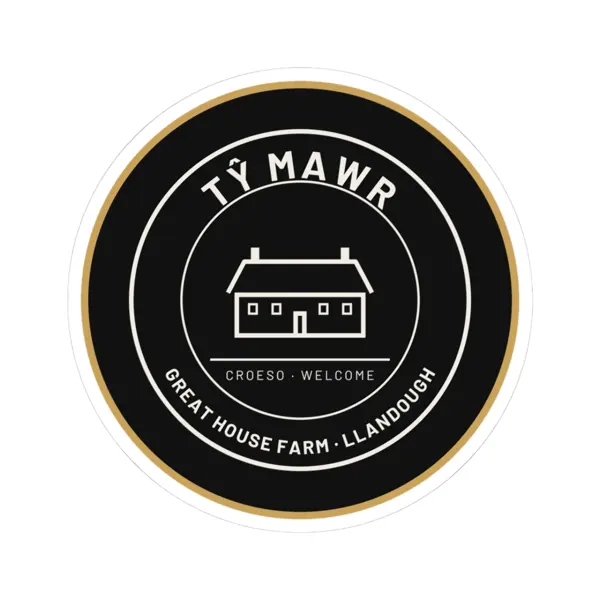
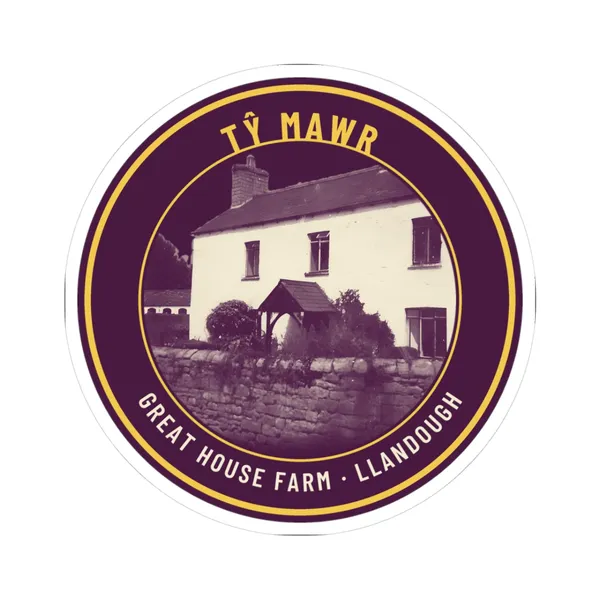
shop: real photographs only. Replaced the generated farmhouse linocut, oak, owl and Vale poster art with restored photos from the farm's own album (duotone, sky removed), new hero/og, 4 Williams–Buckler crest products (brand device, not a grant of arms) — Sion's Tab agent

diff --git a/public/index.html b/public/index.html
@@ -2,8 +2,8 @@
 <title>Gift shop · Great House Farm / Tŷ Mawr</title><meta name="description" content="T-shirts, hoodies, mugs, totes, posters and stickers for Tŷ Mawr / Great House Farm, Llandough. Printed to order, sold at cost.">
 <meta property="og:title" content="Gift shop · Great House Farm / Tŷ Mawr"><meta property="og:description" content="T-shirts, hoodies, mugs, totes, posters and stickers for Tŷ Mawr / Great House Farm, Llandough. Printed to order, sold at cost."><meta property="og:image" content="https://shop.bucklerfamily.estate/img/og.jpg"><meta property="og:url" content="https://shop.bucklerfamily.estate/">
 <link rel="icon" href="/img/icon.png"><link rel="preload" href="/assets/fonts/barlow-latin-400-normal.woff2" as="font" type="font/woff2" crossorigin>
-<link rel="stylesheet" href="/assets/theme.css?v=1"><link rel="stylesheet" href="/assets/shop.css?v=1">
-<script src="/assets/theme.js?v=1" defer></script><script src="https://bucklerfamily.estate/ghf-lang/ghf-lang.js" data-site="shop" defer></script>
+<link rel="stylesheet" href="/assets/theme.css?v=2"><link rel="stylesheet" href="/assets/shop.css?v=2">
+<script src="/assets/theme.js?v=2" defer></script><script src="https://bucklerfamily.estate/ghf-lang/ghf-lang.js" data-site="shop" defer></script>
 <script src="https://bucklerfamily.estate/ebook/cta.js" defer></script>
 </head><body class="sl-home">
 <header class="sl-nav"><nav class="top" aria-label="Site"><a href="/"><strong>Gift shop</strong></a><a href="/#products">Merch</a><a href="https://ebooks.bucklerfamily.estate/">E-books</a><a class="sl-ghost" href="https://greathousefarmwiki.wordpress.com/">Legal Wiki</a></nav></header>
@@ -13,26 +13,30 @@
 <h1>Tŷ Mawr gift shop</h1>
 <p>T-shirts, hoodies, mugs, totes, posters and stickers for Great House Farm, Llandough. Each one is printed when you order it and sold at cost. Every purchase helps tell the story of the farm.</p>
 <p><a class="sl-btn" href="#products">Shop the merch</a> <a class="sl-btn sl-ghost" href="https://ebooks.bucklerfamily.estate/">The e-books</a></p></div></section>
-<section class="sh-sec" id="products"><h2>Merch</h2><p class="sh-lead">Thirteen items, each printed when you order it, mostly in the UK.</p>
-<p class="sh-note">Every item is in the store now. Checkout opens very soon; until then you can browse and save your favourites.</p><div class="sh-grid"><article class="sh-card" id="tee-farmhouse"><div class="sh-img"><img src="/img/p-tee-farmhouse.webp" alt="Tŷ Mawr Farmhouse T-shirt" loading="lazy" width="600" height="600"></div>
-<div class="sh-body"><p class="sh-kind">T-shirt</p><h3>Tŷ Mawr Farmhouse T-shirt</h3><p>Linocut-style farmhouse on a black heavyweight cotton tee (Gildan 5000). Printed in the UK.</p><a class="sl-btn sh-buy" href="https://ty-mawr-gift-shop.printify.me/product/33339691?utm_source=shop.bucklerfamily.estate&amp;utm_medium=storefront&amp;utm_campaign=merch" rel="noopener">See it · from $16.99</a></div></article><article class="sh-card" id="tee-cofiwch"><div class="sh-img"><img src="/img/p-tee-cofiwch.webp" alt="Cofiwch Dŷ Mawr T-shirt" loading="lazy" width="600" height="600"></div>
-<div class="sh-body"><p class="sh-kind">T-shirt</p><h3>Cofiwch Dŷ Mawr T-shirt</h3><p>Remember Tŷ Mawr in bold Welsh type, on a black heavyweight cotton tee. Printed in the UK.</p><a class="sl-btn sh-buy" href="https://ty-mawr-gift-shop.printify.me/product/33339699?utm_source=shop.bucklerfamily.estate&amp;utm_medium=storefront&amp;utm_campaign=merch" rel="noopener">See it · from $16.99</a></div></article><article class="sh-card" id="tee-roots"><div class="sh-img"><img src="/img/p-tee-roots.webp" alt="Our Roots Run Deep T-shirt" loading="lazy" width="600" height="600"></div>
-<div class="sh-body"><p class="sh-kind">T-shirt</p><h3>Our Roots Run Deep T-shirt</h3><p>An oak whose roots become a map of hedged fields, on a black heavyweight cotton tee. Printed in the UK.</p><a class="sl-btn sh-buy" href="https://ty-mawr-gift-shop.printify.me/product/33339700?utm_source=shop.bucklerfamily.estate&amp;utm_medium=storefront&amp;utm_campaign=merch" rel="noopener">See it · from $16.99</a></div></article><article class="sh-card" id="tee-two-realities"><div class="sh-img"><img src="/img/p-tee-two-realities.webp" alt="Two Realities, One Farm T-shirt" loading="lazy" width="600" height="600"></div>
-<div class="sh-body"><p class="sh-kind">T-shirt</p><h3>Two Realities, One Farm T-shirt</h3><p>The chessboard design on a black heavyweight cotton tee. Printed in the UK.</p><a class="sl-btn sh-buy" href="https://ty-mawr-gift-shop.printify.me/product/33339701?utm_source=shop.bucklerfamily.estate&amp;utm_medium=storefront&amp;utm_campaign=merch" rel="noopener">See it · from $16.99</a></div></article><article class="sh-card" id="tee-owl"><div class="sh-img"><img src="/img/p-tee-owl.webp" alt="Nos Da o Dŷ Mawr T-shirt" loading="lazy" width="600" height="600"></div>
-<div class="sh-body"><p class="sh-kind">T-shirt</p><h3>Nos Da o Dŷ Mawr T-shirt</h3><p>Good night from Tŷ Mawr: a barn owl in engraving style, on a black heavyweight cotton tee. Printed in the UK.</p><a class="sl-btn sh-buy" href="https://ty-mawr-gift-shop.printify.me/product/33339702?utm_source=shop.bucklerfamily.estate&amp;utm_medium=storefront&amp;utm_campaign=merch" rel="noopener">See it · from $16.99</a></div></article><article class="sh-card" id="tee-path"><div class="sh-img"><img src="/img/p-tee-path.webp" alt="I Followed the Path T-shirt" loading="lazy" width="600" height="600"></div>
-<div class="sh-body"><p class="sh-kind">T-shirt</p><h3>I Followed the Path T-shirt</h3><p>Numbered stepping stones to the farmhouse, on a black heavyweight cotton tee. Printed in the UK.</p><a class="sl-btn sh-buy" href="https://ty-mawr-gift-shop.printify.me/product/33339704?utm_source=shop.bucklerfamily.estate&amp;utm_medium=storefront&amp;utm_campaign=merch" rel="noopener">See it · from $16.99</a></div></article><article class="sh-card" id="hoodie-emblem"><div class="sh-img"><img src="/img/p-hoodie-emblem.webp" alt="Tŷ Mawr Emblem Hoodie" loading="lazy" width="600" height="600"></div>
-<div class="sh-body"><p class="sh-kind">Hoodie</p><h3>Tŷ Mawr Emblem Hoodie</h3><p>The Tŷ Mawr farmhouse emblem on a black Gildan 18500 hooded sweatshirt. Printed in the UK.</p><a class="sl-btn sh-buy" href="https://ty-mawr-gift-shop.printify.me/product/33339706?utm_source=shop.bucklerfamily.estate&amp;utm_medium=storefront&amp;utm_campaign=merch" rel="noopener">See it · $40.99</a></div></article><article class="sh-card" id="hoodie-wordmark"><div class="sh-img"><img src="/img/p-hoodie-wordmark.webp" alt="Tŷ Mawr Estate Map Hoodie" loading="lazy" width="600" height="600"></div>
-<div class="sh-body"><p class="sh-kind">Hoodie</p><h3>Tŷ Mawr Estate Map Hoodie</h3><p>The Tŷ Mawr wordmark under estate-map line art, on a black hooded sweatshirt. Printed in the UK.</p><a class="sl-btn sh-buy" href="https://ty-mawr-gift-shop.printify.me/product/33339709?utm_source=shop.bucklerfamily.estate&amp;utm_medium=storefront&amp;utm_campaign=merch" rel="noopener">See it · $40.99</a></div></article><article class="sh-card" id="mug-emblem"><div class="sh-img"><img src="/img/p-mug-emblem.webp" alt="Tŷ Mawr Black Mug" loading="lazy" width="600" height="600"></div>
-<div class="sh-body"><p class="sh-kind">Mug</p><h3>Tŷ Mawr Black Mug</h3><p>Black ceramic mug, 11oz or 15oz, with the Tŷ Mawr emblem. Printed in the UK.</p><a class="sl-btn sh-buy" href="https://ty-mawr-gift-shop.printify.me/product/33339711?utm_source=shop.bucklerfamily.estate&amp;utm_medium=storefront&amp;utm_campaign=merch" rel="noopener">See it · from $14.99</a></div></article><article class="sh-card" id="mug-croeso"><div class="sh-img"><img src="/img/p-mug-croeso.webp" alt="Croeso i Dŷ Mawr Mug" loading="lazy" width="600" height="600"></div>
+<section class="sh-sec" id="products"><h2>Merch</h2><p class="sh-lead">Seventeen items, each printed when you order it, mostly in the UK.</p>
+<p class="sh-note">Every item is in the store now. Checkout opens very soon; until then you can browse and save your favourites.</p><div class="sh-grid"><article class="sh-card" id="tee-farmhouse"><div class="sh-img"><img src="/img/p-tee-farmhouse.webp?v=photo1" alt="Tŷ Mawr Farmhouse T-shirt" loading="lazy" width="600" height="600"></div>
+<div class="sh-body"><p class="sh-kind">T-shirt</p><h3>Tŷ Mawr Farmhouse T-shirt</h3><p>A real photograph of the Tŷ Mawr farmhouse from the farm&#x27;s own album. The sky is removed and it is printed in a mulberry and cream duotone; the building itself is unchanged. On a black heavyweight cotton tee (Gildan 5000). Printed in the UK.</p><a class="sl-btn sh-buy" href="https://ty-mawr-gift-shop.printify.me/product/33339691?utm_source=shop.bucklerfamily.estate&amp;utm_medium=storefront&amp;utm_campaign=merch" rel="noopener">See it · from $16.99</a></div></article><article class="sh-card" id="tee-cofiwch"><div class="sh-img"><img src="/img/p-tee-cofiwch.webp" alt="Cofiwch Dŷ Mawr T-shirt" loading="lazy" width="600" height="600"></div>
+<div class="sh-body"><p class="sh-kind">T-shirt</p><h3>Cofiwch Dŷ Mawr T-shirt</h3><p>Remember Tŷ Mawr in bold Welsh type, on a black heavyweight cotton tee. Printed in the UK.</p><a class="sl-btn sh-buy" href="https://ty-mawr-gift-shop.printify.me/product/33339699?utm_source=shop.bucklerfamily.estate&amp;utm_medium=storefront&amp;utm_campaign=merch" rel="noopener">See it · from $16.99</a></div></article><article class="sh-card" id="tee-roots"><div class="sh-img"><img src="/img/p-tee-roots.webp?v=photo1" alt="Our Roots Run Deep T-shirt" loading="lazy" width="600" height="600"></div>
+<div class="sh-body"><p class="sh-kind">T-shirt</p><h3>Our Roots Run Deep T-shirt</h3><p>Our Roots Run Deep, above a real photograph of the Tŷ Mawr farmhouse from the farm&#x27;s own album, printed in a mulberry and cream duotone. On a black heavyweight cotton tee (Gildan 5000). Printed in the UK.</p><a class="sl-btn sh-buy" href="https://ty-mawr-gift-shop.printify.me/product/33339700?utm_source=shop.bucklerfamily.estate&amp;utm_medium=storefront&amp;utm_campaign=merch" rel="noopener">See it · from $16.99</a></div></article><article class="sh-card" id="tee-two-realities"><div class="sh-img"><img src="/img/p-tee-two-realities.webp" alt="Two Realities, One Farm T-shirt" loading="lazy" width="600" height="600"></div>
+<div class="sh-body"><p class="sh-kind">T-shirt</p><h3>Two Realities, One Farm T-shirt</h3><p>The chessboard design on a black heavyweight cotton tee. Printed in the UK.</p><a class="sl-btn sh-buy" href="https://ty-mawr-gift-shop.printify.me/product/33339701?utm_source=shop.bucklerfamily.estate&amp;utm_medium=storefront&amp;utm_campaign=merch" rel="noopener">See it · from $16.99</a></div></article><article class="sh-card" id="tee-owl"><div class="sh-img"><img src="/img/p-tee-porch.webp?v=photo1" alt="Croeso i Dŷ Mawr Porch T-shirt" loading="lazy" width="600" height="600"></div>
+<div class="sh-body"><p class="sh-kind">T-shirt</p><h3>Croeso i Dŷ Mawr Porch T-shirt</h3><p>The farmhouse&#x27;s timber porch, from a real photograph in the farm&#x27;s own album, printed in a mulberry and cream duotone with no changes to the building. On a black heavyweight cotton tee (Gildan 5000). Printed in the UK.</p><a class="sl-btn sh-buy" href="https://ty-mawr-gift-shop.printify.me/product/33339702?utm_source=shop.bucklerfamily.estate&amp;utm_medium=storefront&amp;utm_campaign=merch" rel="noopener">See it · from $16.99</a></div></article><article class="sh-card" id="tee-path"><div class="sh-img"><img src="/img/p-tee-path.webp?v=photo1" alt="I Followed the Path T-shirt" loading="lazy" width="600" height="600"></div>
+<div class="sh-body"><p class="sh-kind">T-shirt</p><h3>I Followed the Path T-shirt</h3><p>Numbered stepping stones leading to a real photograph of the Tŷ Mawr farmhouse (sky removed, mulberry and cream duotone). On a black heavyweight cotton tee (Gildan 5000). Printed in the UK.</p><a class="sl-btn sh-buy" href="https://ty-mawr-gift-shop.printify.me/product/33339704?utm_source=shop.bucklerfamily.estate&amp;utm_medium=storefront&amp;utm_campaign=merch" rel="noopener">See it · from $16.99</a></div></article><article class="sh-card" id="hoodie-emblem"><div class="sh-img"><img src="/img/p-hoodie-emblem.webp?v=photo1" alt="Tŷ Mawr Emblem Hoodie" loading="lazy" width="600" height="600"></div>
+<div class="sh-body"><p class="sh-kind">Hoodie</p><h3>Tŷ Mawr Emblem Hoodie</h3><p>The Tŷ Mawr emblem: a real photograph of the farmhouse from the farm&#x27;s own album, sky removed, in a mulberry tone inside a gold ring. On a black Gildan 18500 hooded sweatshirt. Printed in the UK.</p><a class="sl-btn sh-buy" href="https://ty-mawr-gift-shop.printify.me/product/33339706?utm_source=shop.bucklerfamily.estate&amp;utm_medium=storefront&amp;utm_campaign=merch" rel="noopener">See it · $40.99</a></div></article><article class="sh-card" id="hoodie-wordmark"><div class="sh-img"><img src="/img/p-hoodie-wordmark.webp" alt="Tŷ Mawr Estate Map Hoodie" loading="lazy" width="600" height="600"></div>
+<div class="sh-body"><p class="sh-kind">Hoodie</p><h3>Tŷ Mawr Estate Map Hoodie</h3><p>The Tŷ Mawr wordmark under estate-map line art, on a black hooded sweatshirt. Printed in the UK.</p><a class="sl-btn sh-buy" href="https://ty-mawr-gift-shop.printify.me/product/33339709?utm_source=shop.bucklerfamily.estate&amp;utm_medium=storefront&amp;utm_campaign=merch" rel="noopener">See it · $40.99</a></div></article><article class="sh-card" id="mug-emblem"><div class="sh-img"><img src="/img/p-mug-emblem.webp?v=photo1" alt="Tŷ Mawr Black Mug" loading="lazy" width="600" height="600"></div>
+<div class="sh-body"><p class="sh-kind">Mug</p><h3>Tŷ Mawr Black Mug</h3><p>Black ceramic mug, 11oz or 15oz, with the Tŷ Mawr emblem on both sides: a real photograph of the farmhouse, sky removed, in a mulberry tone inside a gold ring. Printed in the UK.</p><a class="sl-btn sh-buy" href="https://ty-mawr-gift-shop.printify.me/product/33339711?utm_source=shop.bucklerfamily.estate&amp;utm_medium=storefront&amp;utm_campaign=merch" rel="noopener">See it · from $14.99</a></div></article><article class="sh-card" id="mug-croeso"><div class="sh-img"><img src="/img/p-mug-croeso.webp" alt="Croeso i Dŷ Mawr Mug" loading="lazy" width="600" height="600"></div>
 <div class="sh-body"><p class="sh-kind">Mug</p><h3>Croeso i Dŷ Mawr Mug</h3><p>Black ceramic mug with the field-map design and a Welsh welcome. Printed in the UK.</p><a class="sl-btn sh-buy" href="https://ty-mawr-gift-shop.printify.me/product/33339714?utm_source=shop.bucklerfamily.estate&amp;utm_medium=storefront&amp;utm_campaign=merch" rel="noopener">See it · from $14.99</a></div></article><article class="sh-card" id="tote-record"><div class="sh-img"><img src="/img/p-tote-record.webp" alt="Read the Record Tote Bag" loading="lazy" width="600" height="600"></div>
-<div class="sh-body"><p class="sh-kind">Tote bag</p><h3>Read the Record Tote Bag</h3><p>Black cotton tote with the open-book Read the Record design. Printed in the UK.</p><a class="sl-btn sh-buy" href="https://ty-mawr-gift-shop.printify.me/product/33339716?utm_source=shop.bucklerfamily.estate&amp;utm_medium=storefront&amp;utm_campaign=merch" rel="noopener">See it · $17.99</a></div></article><article class="sh-card" id="poster-vale"><div class="sh-img"><img src="/img/p-poster-vale.webp" alt="Vale of Glamorgan Poster" loading="lazy" width="600" height="600"></div>
-<div class="sh-body"><p class="sh-kind">Poster</p><h3>Vale of Glamorgan Poster</h3><p>Mid-century travel-poster view of the Vale, on matte fine-art paper. Printed in the UK.</p><a class="sl-btn sh-buy" href="https://ty-mawr-gift-shop.printify.me/product/33339720?utm_source=shop.bucklerfamily.estate&amp;utm_medium=storefront&amp;utm_campaign=merch" rel="noopener">See it · from $17.99</a></div></article><article class="sh-card" id="sticker-badge"><div class="sh-img"><img src="/img/p-sticker-badge.webp" alt="Tŷ Mawr Badge Sticker" loading="lazy" width="600" height="600"></div>
-<div class="sh-body"><p class="sh-kind">Sticker</p><h3>Tŷ Mawr Badge Sticker</h3><p>Round kiss-cut vinyl sticker with the Tŷ Mawr emblem. Ships from the US, so it takes longer.</p><a class="sl-btn sh-buy" href="https://ty-mawr-gift-shop.printify.me/product/33339723?utm_source=shop.bucklerfamily.estate&amp;utm_medium=storefront&amp;utm_campaign=merch" rel="noopener">See it · $3.99</a></div></article></div></section>
+<div class="sh-body"><p class="sh-kind">Tote bag</p><h3>Read the Record Tote Bag</h3><p>Black cotton tote with the open-book Read the Record design. Printed in the UK.</p><a class="sl-btn sh-buy" href="https://ty-mawr-gift-shop.printify.me/product/33339716?utm_source=shop.bucklerfamily.estate&amp;utm_medium=storefront&amp;utm_campaign=merch" rel="noopener">See it · $17.99</a></div></article><article class="sh-card" id="poster-vale"><div class="sh-img"><img src="/img/p-poster-vale.webp?v=photo1" alt="Tŷ Mawr Album Poster" loading="lazy" width="600" height="600"></div>
+<div class="sh-body"><p class="sh-kind">Poster</p><h3>Tŷ Mawr Album Poster</h3><p>Four real photographs from the farm&#x27;s own album: the farmhouse front, its side and porch, the entrance gate and the stable range. Restored and printed in a mulberry duotone, with no changes to the buildings. Matte fine-art paper. Printed in the UK.</p><a class="sl-btn sh-buy" href="https://ty-mawr-gift-shop.printify.me/product/33339720?utm_source=shop.bucklerfamily.estate&amp;utm_medium=storefront&amp;utm_campaign=merch" rel="noopener">See it · from $17.99</a></div></article><article class="sh-card" id="sticker-badge"><div class="sh-img"><img src="/img/p-sticker-badge.webp?v=photo1" alt="Tŷ Mawr Badge Sticker" loading="lazy" width="600" height="600"></div>
+<div class="sh-body"><p class="sh-kind">Sticker</p><h3>Tŷ Mawr Badge Sticker</h3><p>Round kiss-cut vinyl sticker with the Tŷ Mawr emblem: a real photograph of the farmhouse in a mulberry tone inside a gold ring. Ships from the US, so it takes longer.</p><a class="sl-btn sh-buy" href="https://ty-mawr-gift-shop.printify.me/product/33339723?utm_source=shop.bucklerfamily.estate&amp;utm_medium=storefront&amp;utm_campaign=merch" rel="noopener">See it · $3.99</a></div></article><article class="sh-card" id="tee-crest"><div class="sh-img"><img src="/img/p-tee-crest.webp?v=photo1" alt="Williams–Buckler Crest T-shirt" loading="lazy" width="600" height="600"></div>
+<div class="sh-body"><p class="sh-kind">T-shirt</p><h3>Williams–Buckler Crest T-shirt</h3><p>The Williams–Buckler · Cedwyn Estate crest, hand-drawn vector art in black and gold, on a black heavyweight cotton tee (Gildan 5000). A brand device combining the Williams and Buckler arms; not a grant of arms. Printed in the UK.</p><a class="sl-btn sh-buy" href="https://ty-mawr-gift-shop.printify.me/product/33341237?utm_source=shop.bucklerfamily.estate&amp;utm_medium=storefront&amp;utm_campaign=merch" rel="noopener">See it · from $16.99</a></div></article><article class="sh-card" id="hoodie-crest"><div class="sh-img"><img src="/img/p-hoodie-crest.webp?v=photo1" alt="Williams–Buckler Crest Hoodie" loading="lazy" width="600" height="600"></div>
+<div class="sh-body"><p class="sh-kind">Hoodie</p><h3>Williams–Buckler Crest Hoodie</h3><p>The Williams–Buckler · Cedwyn Estate crest, hand-drawn vector art in black and gold, on a black Gildan 18500 hooded sweatshirt. A brand device combining the Williams and Buckler arms; not a grant of arms. Printed in the UK.</p><a class="sl-btn sh-buy" href="https://ty-mawr-gift-shop.printify.me/product/33341239?utm_source=shop.bucklerfamily.estate&amp;utm_medium=storefront&amp;utm_campaign=merch" rel="noopener">See it · $40.99</a></div></article><article class="sh-card" id="mug-crest"><div class="sh-img"><img src="/img/p-mug-crest.webp?v=photo1" alt="Williams–Buckler Crest Mug" loading="lazy" width="600" height="600"></div>
+<div class="sh-body"><p class="sh-kind">Mug</p><h3>Williams–Buckler Crest Mug</h3><p>Black ceramic mug, 11oz or 15oz, with the Williams–Buckler · Cedwyn Estate crest on both sides. A brand device combining the Williams and Buckler arms; not a grant of arms. Printed in the UK.</p><a class="sl-btn sh-buy" href="https://ty-mawr-gift-shop.printify.me/product/33341242?utm_source=shop.bucklerfamily.estate&amp;utm_medium=storefront&amp;utm_campaign=merch" rel="noopener">See it · from $14.99</a></div></article><article class="sh-card" id="sticker-crest"><div class="sh-img"><img src="/img/p-sticker-crest.webp?v=photo1" alt="Williams–Buckler Crest Sticker" loading="lazy" width="600" height="600"></div>
+<div class="sh-body"><p class="sh-kind">Sticker</p><h3>Williams–Buckler Crest Sticker</h3><p>Kiss-cut vinyl sticker of the Williams–Buckler · Cedwyn Estate crest. A brand device combining the Williams and Buckler arms; not a grant of arms. Ships from the US, so it takes longer.</p><a class="sl-btn sh-buy" href="https://ty-mawr-gift-shop.printify.me/product/33341245?utm_source=shop.bucklerfamily.estate&amp;utm_medium=storefront&amp;utm_campaign=merch" rel="noopener">See it · $3.99</a></div></article></div></section>
 <section class="sh-sec" id="books"><h2>Books</h2><p class="sh-lead">The story behind the designs, in full.</p>
 <div class="sh-books"><a class="sh-book" href="https://bucklerfamily.estate/ebook/"><strong>The Great House Farm Legal Wiki</strong><span>The whole wiki as one e-book · from £0.00 · £9.99 – v0.02 · all four £31.99</span></a>
 <a class="sh-book" href="https://ebooks.bucklerfamily.estate/"><strong>All the e-books</strong><span>Every book from £0.00 – v0.01 and £9.99 – v0.02; all four for £31.99</span></a></div></section>
-<section class="sh-sec" id="designs"><h2>The designs</h2><p class="sh-lead">Every design was drawn for this shop. None uses a photograph of a person.</p>
-<div class="sh-dgrid"><figure class="sh-d"><img src="/img/d10-farmhouse-linocut.webp" alt="Tŷ Mawr farmhouse" loading="lazy" width="640" height="640"><figcaption><strong>Tŷ Mawr farmhouse</strong> Linocut-style illustration of a Welsh stone farmhouse.</figcaption></figure><figure class="sh-d"><img src="/img/d04-cofiwch-dy-mawr.webp" alt="Cofiwch Dŷ Mawr" loading="lazy" width="640" height="640"><figcaption><strong>Cofiwch Dŷ Mawr</strong> Remember Tŷ Mawr, in bold Welsh type.</figcaption></figure><figure class="sh-d"><img src="/img/d11-our-roots-run-deep.webp" alt="Our roots run deep" loading="lazy" width="640" height="640"><figcaption><strong>Our roots run deep</strong> An oak whose roots become a map of hedged fields.</figcaption></figure><figure class="sh-d"><img src="/img/d07-two-realities-one-farm.webp" alt="Two realities. One farm." loading="lazy" width="640" height="640"><figcaption><strong>Two realities. One farm.</strong> A chessboard for the two stories told about one farm.</figcaption></figure><figure class="sh-d"><img src="/img/d12-nos-da-owl.webp" alt="Nos da o Dŷ Mawr" loading="lazy" width="640" height="640"><figcaption><strong>Nos da o Dŷ Mawr</strong> Good night from Tŷ Mawr: a barn owl in engraving style.</figcaption></figure><figure class="sh-d"><img src="/img/d01-emblem-cream.webp" alt="The Tŷ Mawr emblem" loading="lazy" width="640" height="640"><figcaption><strong>The Tŷ Mawr emblem</strong> The farmhouse badge: Tŷ Mawr, Great House Farm, Llandough.</figcaption></figure><figure class="sh-d"><img src="/img/d03-wordmark-estate-map.webp" alt="Tŷ Mawr · estate map" loading="lazy" width="640" height="640"><figcaption><strong>Tŷ Mawr · estate map</strong> The wordmark under stylised estate map line art.</figcaption></figure><figure class="sh-d"><img src="/img/d05-every-field-has-a-story.webp" alt="Every field has a story" loading="lazy" width="640" height="640"><figcaption><strong>Every field has a story</strong> Field-map line art and an italic line of text.</figcaption></figure><figure class="sh-d"><img src="/img/d06-read-the-record.webp" alt="Read the record" loading="lazy" width="640" height="640"><figcaption><strong>Read the record</strong> An open book, for readers of the Legal Wiki.</figcaption></figure><figure class="sh-d"><img src="/img/d08-i-followed-the-path.webp" alt="I followed the path" loading="lazy" width="640" height="640"><figcaption><strong>I followed the path</strong> Numbered stepping stones that lead to the farmhouse.</figcaption></figure><figure class="sh-d"><img src="/img/d09-sticker-badge.webp" alt="Sticker badge" loading="lazy" width="640" height="640"><figcaption><strong>Sticker badge</strong> The emblem on a round black badge.</figcaption></figure><figure class="sh-d"><img src="/img/d13-vale-poster.webp" alt="Vale of Glamorgan poster" loading="lazy" width="640" height="640"><figcaption><strong>Vale of Glamorgan poster</strong> A mid-century travel-poster view of the Vale.</figcaption></figure></div></section>
+<section class="sh-sec" id="designs"><h2>The designs</h2><p class="sh-lead">Every picture of the farm is a real photograph from the farm’s own album: restored and toned, never redrawn or generated. No photograph shows a person.</p>
+<div class="sh-dgrid"><figure class="sh-d"><img src="/img/ph01-farmhouse.webp" alt="Tŷ Mawr farmhouse" loading="lazy" width="640" height="640"><figcaption><strong>Tŷ Mawr farmhouse</strong> A real photograph from the farm&#x27;s own album: sky removed, mulberry and cream duotone. The building is unchanged.</figcaption></figure><figure class="sh-d"><img src="/img/ph02-porch.webp" alt="Croeso i Dŷ Mawr" loading="lazy" width="640" height="640"><figcaption><strong>Croeso i Dŷ Mawr</strong> The farmhouse&#x27;s timber porch, from a real album photograph, in duotone.</figcaption></figure><figure class="sh-d"><img src="/img/ph03-our-roots.webp" alt="Our roots run deep" loading="lazy" width="640" height="640"><figcaption><strong>Our roots run deep</strong> The words above a real photograph of the farmhouse, in duotone.</figcaption></figure><figure class="sh-d"><img src="/img/ph04-path.webp" alt="I followed the path" loading="lazy" width="640" height="640"><figcaption><strong>I followed the path</strong> Numbered stepping stones up to the real farmhouse photograph.</figcaption></figure><figure class="sh-d"><img src="/img/ph05-emblem.webp" alt="The Tŷ Mawr emblem" loading="lazy" width="640" height="640"><figcaption><strong>The Tŷ Mawr emblem</strong> The farmhouse photograph, sky removed, inside a gold ring.</figcaption></figure><figure class="sh-d"><img src="/img/ph06-album-poster.webp" alt="From the farm’s album" loading="lazy" width="640" height="640"><figcaption><strong>From the farm’s album</strong> Four real photographs: the farmhouse front, side, entrance and stable range.</figcaption></figure><figure class="sh-d"><img src="/img/cr01-crest.webp" alt="Williams–Buckler crest" loading="lazy" width="640" height="640"><figcaption><strong>Williams–Buckler crest</strong> Hand-drawn vector brand device for the Cedwyn Estate. A brand device combining the Williams and Buckler arms; not a grant of arms.</figcaption></figure><figure class="sh-d"><img src="/img/d04-cofiwch-dy-mawr.webp" alt="Cofiwch Dŷ Mawr" loading="lazy" width="640" height="640"><figcaption><strong>Cofiwch Dŷ Mawr</strong> Remember Tŷ Mawr, in bold Welsh type.</figcaption></figure><figure class="sh-d"><img src="/img/d07-two-realities-one-farm.webp" alt="Two realities. One farm." loading="lazy" width="640" height="640"><figcaption><strong>Two realities. One farm.</strong> A chessboard for the two stories told about one farm.</figcaption></figure><figure class="sh-d"><img src="/img/d03-wordmark-estate-map.webp" alt="Tŷ Mawr · estate map" loading="lazy" width="640" height="640"><figcaption><strong>Tŷ Mawr · estate map</strong> The wordmark under stylised estate map line art.</figcaption></figure><figure class="sh-d"><img src="/img/d05-every-field-has-a-story.webp" alt="Every field has a story" loading="lazy" width="640" height="640"><figcaption><strong>Every field has a story</strong> Field-map line art and an italic line of text.</figcaption></figure><figure class="sh-d"><img src="/img/d06-read-the-record.webp" alt="Read the record" loading="lazy" width="640" height="640"><figcaption><strong>Read the record</strong> An open book, for readers of the Legal Wiki.</figcaption></figure></div></section>
 <section class="sh-sec" id="how"><h2>How an order works</h2><ol class="sh-steps">
 <li>Pick an item and press the button. It opens in our print partner's secure store, where you choose size and colour and pay.</li>
 <li>The item is printed to order by a print partner near you (UK items print in the UK where available).</li>

diff --git a/public/terms/index.html b/public/terms/index.html
@@ -2,8 +2,8 @@
 <title>Terms, delivery and returns · Tŷ Mawr gift shop</title><meta name="description" content="Who sells the merch, how delivery works, and returns.">
 <meta property="og:title" content="Terms, delivery and returns · Tŷ Mawr gift shop"><meta property="og:description" content="Who sells the merch, how delivery works, and returns."><meta property="og:image" content="https://shop.bucklerfamily.estate/img/og.jpg"><meta property="og:url" content="https://shop.bucklerfamily.estate/terms/">
 <link rel="icon" href="/img/icon.png"><link rel="preload" href="/assets/fonts/barlow-latin-400-normal.woff2" as="font" type="font/woff2" crossorigin>
-<link rel="stylesheet" href="/assets/theme.css?v=1"><link rel="stylesheet" href="/assets/shop.css?v=1">
-<script src="/assets/theme.js?v=1" defer></script><script src="https://bucklerfamily.estate/ghf-lang/ghf-lang.js" data-site="shop" defer></script>
+<link rel="stylesheet" href="/assets/theme.css?v=2"><link rel="stylesheet" href="/assets/shop.css?v=2">
+<script src="/assets/theme.js?v=2" defer></script><script src="https://bucklerfamily.estate/ghf-lang/ghf-lang.js" data-site="shop" defer></script>
 <script src="https://bucklerfamily.estate/ebook/cta.js" defer></script>
 </head><body class="sl-home">
 <header class="sl-nav"><nav class="top" aria-label="Site"><a href="/"><strong>Gift shop</strong></a><a href="/#products">Merch</a><a href="https://ebooks.bucklerfamily.estate/">E-books</a><a class="sl-ghost" href="https://greathousefarmwiki.wordpress.com/">Legal Wiki</a></nav></header>
@@ -14,7 +14,7 @@
 <h2>Printing and delivery</h2><p>Each item is printed when you order it, usually within 2–5 working days, then posted with tracking. The delivery price and estimated time for your address are shown at checkout before you pay.</p>
 <h2>Returns and faults</h2><p>Items are made to order, so we can't take returns for a change of mind (the right to cancel doesn't apply to personalised or made-to-order goods under the Consumer Contracts Regulations 2013). If an item arrives damaged, misprinted or faulty, tell us within 30 days with a photo and we'll arrange a free reprint or a full refund. Your statutory rights under the Consumer Rights Act 2015 are not affected.</p>
 <h2>Contact</h2><p>Questions about an order: <a href="mailto:info@bucklerfamily.estate">info@bucklerfamily.estate</a>. Please include your order number.</p>
-<h2>The designs</h2><p>All designs were made for this shop and are © DATRO CONSORTIUM LIMITED for the Great House Farm / Tŷ Mawr project. Illustrations are artwork, not photographs of real buildings or people.</p>
+<h2>The designs</h2><p>All designs were made for this shop and are © DATRO CONSORTIUM LIMITED for the Great House Farm / Tŷ Mawr project. Pictures of the farm are real photographs from the farm’s own album, restored (upscaled, contrast, toning, sky removal) without changing what they show. The other designs are typography and line art. The Williams–Buckler crest is a brand device combining the Williams and Buckler arms; not a grant of arms.</p>
 <p class="sh-fine">Last updated 20 October 2026. — Sion's Tab agent</p></main><footer class="sl-foot"><div class="sl-foot-in"><a class="sl-foot-title" href="/">Gift shop — Great House Farm / Tŷ Mawr</a>
 <a href="https://bucklerfamily.estate/">&#10229; Back to base camp (bucklerfamily.estate)</a><a href="https://ebooks.bucklerfamily.estate/">E-books</a><a href="https://bucklerfamily.estate/ebook/">The Legal Wiki book</a><a href="https://greathousefarmwiki.wordpress.com/">Legal Wiki</a><a href="/terms/">Terms, delivery and returns</a><a href="https://ty-mawr-gift-shop.printify.me/">The whole store</a>
 <p class="sh-fine">Merch is sold by DATRO CONSORTIUM LIMITED, the merchant of record, pro bono and at cost, to fund the Great House Farm / Tŷ Mawr heritage story project. Printed to order and shipped by our print partner. Checkout is secure and card details never touch this site.</p>

diff --git a/public/assets/shop.css b/public/assets/shop.css
@@ -1,7 +1,7 @@
 /* shop.bucklerfamily.estate — on top of the shared Starlink-style theme (theme.css, Barlow). Mobile first, 390px. */
 .bc-back{position:fixed;left:10px;bottom:10px;z-index:60;background:rgba(0,0,0,.82);color:#e8e8e8;border:1px solid #444;padding:7px 11px;font-size:.72rem;letter-spacing:.04em;text-decoration:none;border-radius:2px}
 .bc-back:hover{border-color:#c9a25a;color:#fff}
-.sh-hero{min-height:0!important;padding:6.4rem 1.1rem 2.4rem!important;background:linear-gradient(180deg,rgba(0,0,0,.25),#000 92%),url(/img/hero.webp) center/cover no-repeat}
+.sh-hero{min-height:0!important;padding:6.4rem 1.1rem 2.4rem!important;background:linear-gradient(180deg,rgba(0,0,0,.25),#000 92%),url(/img/hero.webp?v=2) center/cover no-repeat}
 .sh-hero h1{font-size:clamp(2.3rem,10vw,4.8rem);margin:.2rem 0 .8rem}
 .sh-hero p{max-width:40rem}
 .sh-k{font-size:.7rem;letter-spacing:.18em;text-transform:uppercase;color:#c9a25a}

diff --git a/build.py b/build.py
@@ -42,7 +42,7 @@ idx = HEAD.format(title="Gift shop · Great House Farm / Tŷ Mawr", desc="T-shir
 <section class="sh-sec" id="books"><h2>Books</h2><p class="sh-lead">The story behind the designs, in full.</p>
 <div class="sh-books"><a class="sh-book" href="https://bucklerfamily.estate/ebook/"><strong>The Great House Farm Legal Wiki</strong><span>The whole wiki as one e-book · from £0.00 · £9.99 – v0.02 · all four £31.99</span></a>
 <a class="sh-book" href="https://ebooks.bucklerfamily.estate/"><strong>All the e-books</strong><span>Every book from £0.00 – v0.01 and £9.99 – v0.02; all four for £31.99</span></a></div></section>
-<section class="sh-sec" id="designs"><h2>The designs</h2><p class="sh-lead">Every design was drawn for this shop. None uses a photograph of a person.</p>
+<section class="sh-sec" id="designs"><h2>The designs</h2><p class="sh-lead">Every picture of the farm is a real photograph from the farm’s own album: restored and toned, never redrawn or generated. No photograph shows a person.</p>
 <div class="sh-dgrid">{''.join(dcard(d) for d in DS)}</div></section>
 <section class="sh-sec" id="how"><h2>How an order works</h2><ol class="sh-steps">
 <li>Pick an item and press the button. It opens in our print partner's secure store, where you choose size and colour and pay.</li>
@@ -58,7 +58,7 @@ terms = HEAD.format(title="Terms, delivery and returns · Tŷ Mawr gift shop", d
 <h2>Printing and delivery</h2><p>Each item is printed when you order it, usually within 2–5 working days, then posted with tracking. The delivery price and estimated time for your address are shown at checkout before you pay.</p>
 <h2>Returns and faults</h2><p>Items are made to order, so we can't take returns for a change of mind (the right to cancel doesn't apply to personalised or made-to-order goods under the Consumer Contracts Regulations 2013). If an item arrives damaged, misprinted or faulty, tell us within 30 days with a photo and we'll arrange a free reprint or a full refund. Your statutory rights under the Consumer Rights Act 2015 are not affected.</p>
 <h2>Contact</h2><p>Questions about an order: <a href="mailto:{e(CFG['contact_email'])}">{e(CFG['contact_email'])}</a>. Please include your order number.</p>
-<h2>The designs</h2><p>All designs were made for this shop and are © DATRO CONSORTIUM LIMITED for the Great House Farm / Tŷ Mawr project. Illustrations are artwork, not photographs of real buildings or people.</p>
+<h2>The designs</h2><p>All designs were made for this shop and are © DATRO CONSORTIUM LIMITED for the Great House Farm / Tŷ Mawr project. Pictures of the farm are real photographs from the farm’s own album, restored (upscaled, contrast, toning, sky removal) without changing what they show. The other designs are typography and line art. The Williams–Buckler crest is a brand device combining the Williams and Buckler arms; not a grant of arms.</p>
 <p class="sh-fine">Last updated 20 October 2026. — Sion's Tab agent</p></main>""" + FOOT
 BANNED = re.compile(r"\b(says|claims|according to|hearsay|unverified|alleged|allegedly|family account|family's account|family testimony)\b", re.I)
 PRIV = re.compile(r"Robin Hill|hywelapbuckler|7845 ?933 ?262|(\+44 ?7|\b07)\d{3} ?\d{3} ?\d{3}|\b[A-Z]{1,2}\d[A-Z\d]? ?\d[A-Z]{2}\b|@(gmail|hotmail|yahoo|outlook|icloud|btinternet|aol)\.|\bSion Buckler\b")
